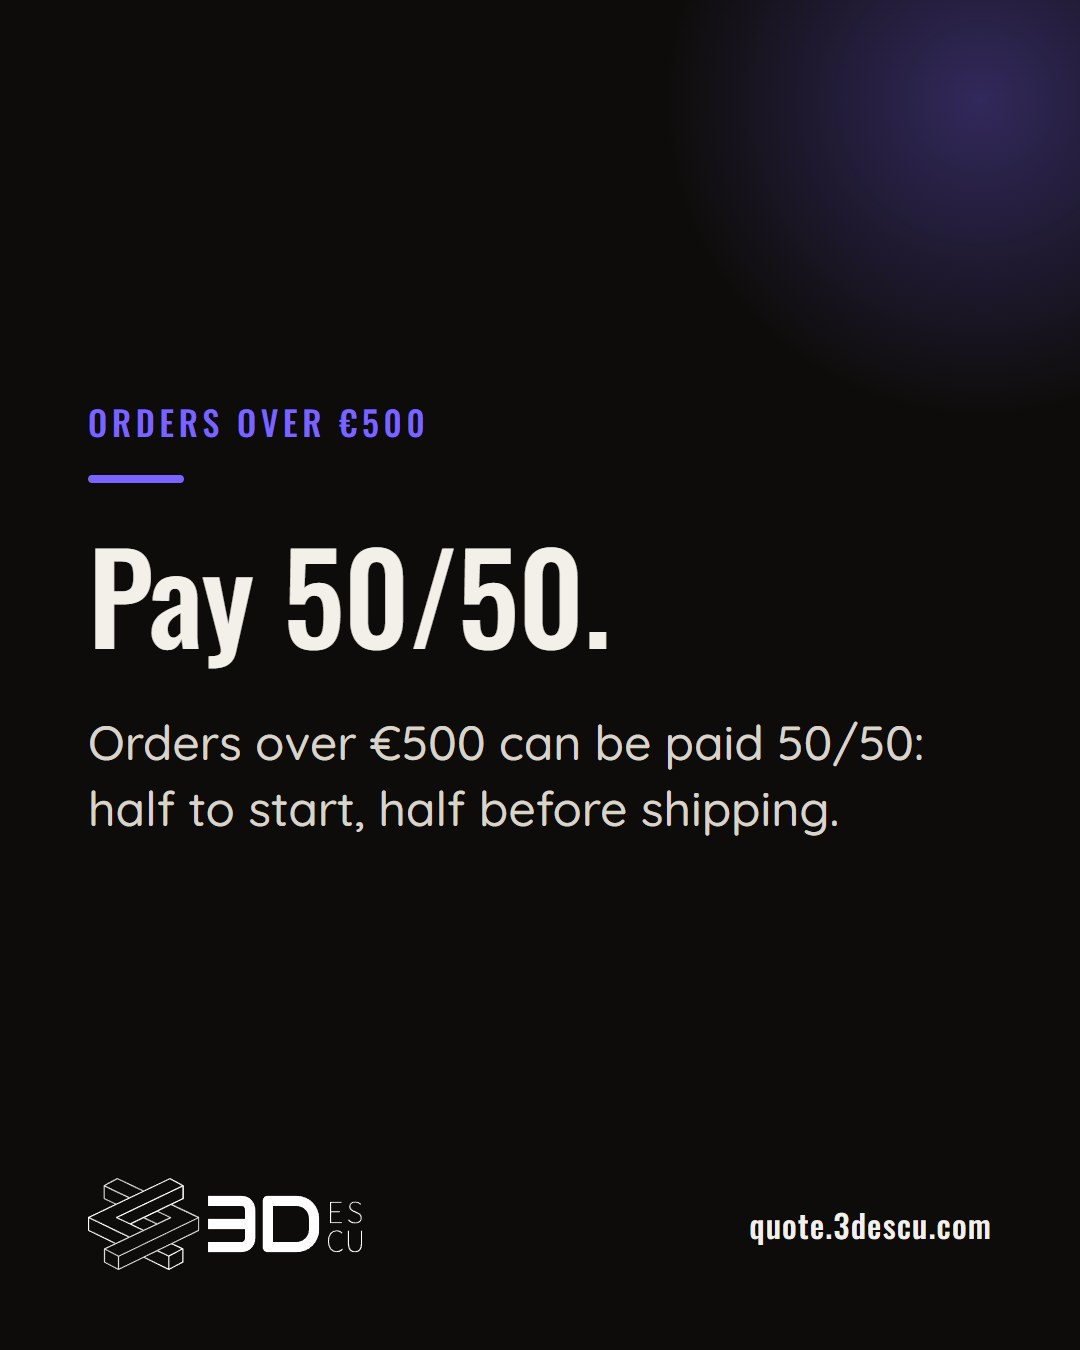
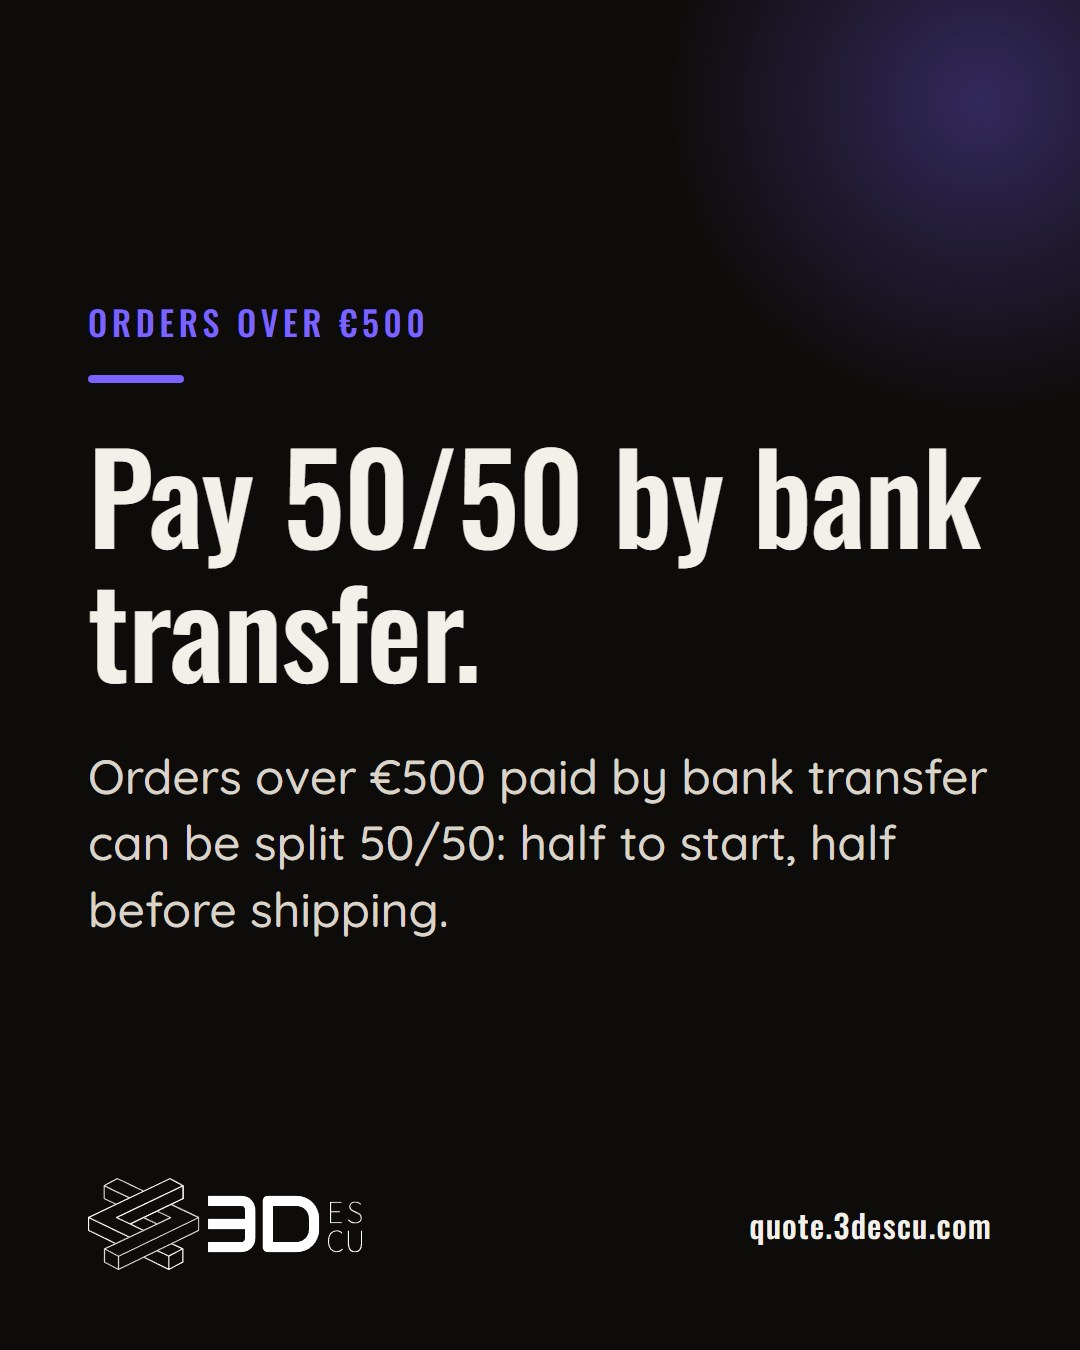
Offer the 50/50 split by bank transfer only
Adrian ruled 2026-10-02: orders over €500 can be split 50/50 only when paid by
bank transfer; card and PayPal are paid in full upfront. Six scheduled posts
(10 Oct IG, 10 Nov FB+IG, 12 Nov LinkedIn+FB, 12 Dec IG, plus the 10 Nov
YouTube draft) and the s5-payment card now carry the condition. A new test
fails on any caption or alt text that offers the split without the bank
transfer in the same sentence.

Changed region(s): [[0.0611, 0.2178, 0.9167, 0.7156], [0.7028, 0.3111, 0.9167, 0.4044]]

diff --git a/test/check.test.ts b/test/check.test.ts
@@ -142,3 +142,17 @@ test('idempotency: a second run publishes nothing, failures retry up to the cap'
   const reloaded = JSON.parse(JSON.stringify(state)) as State;
   assert.deepEqual(selectDue([a, b], reloaded, now).due, []);
 });
+
+// Adrian 2026-10-02: the 50/50 split (orders over €500) is bank transfer only; card and PayPal are paid in full upfront.
+// Every sentence that offers the split must name the bank transfer in the same sentence (captions and alt text).
+const SPLIT = /50\s*\/\s*50|half to start|Hälfte zum Start|moitié au (démarrage|lancement)|helft bij de start/i;
+const BANK = /bank transfer|Überweisung|virement|overboeking/i;
+const bareSplit = (s: string) => s.split(/(?<=[.!?]["”»]?)\s+|\n/).filter((x) => SPLIT.test(x) && !BANK.test(x));
+
+test('50/50 is only ever offered by bank transfer', () => {
+  assert.equal(bareSplit('Orders over €500 can be paid 50/50.').length, 1, 'guard catches the bare split');
+  assert.equal(bareSplit('Pay 50/50. Bank transfer only.').length, 1, 'guard needs the same sentence');
+  assert.equal(bareSplit('Card with the heading "Pay 50/50." and the line "Pay by bank transfer."').length, 1, 'quoted heading');
+  assert.equal(bareSplit('Orders over €500 paid by bank transfer can be split 50/50: half to start, half before shipping.').length, 0);
+  for (const e of committed) for (const t of [e.caption, ...e.alt]) assert.deepEqual(bareSplit(t), [], e.id);
+});
